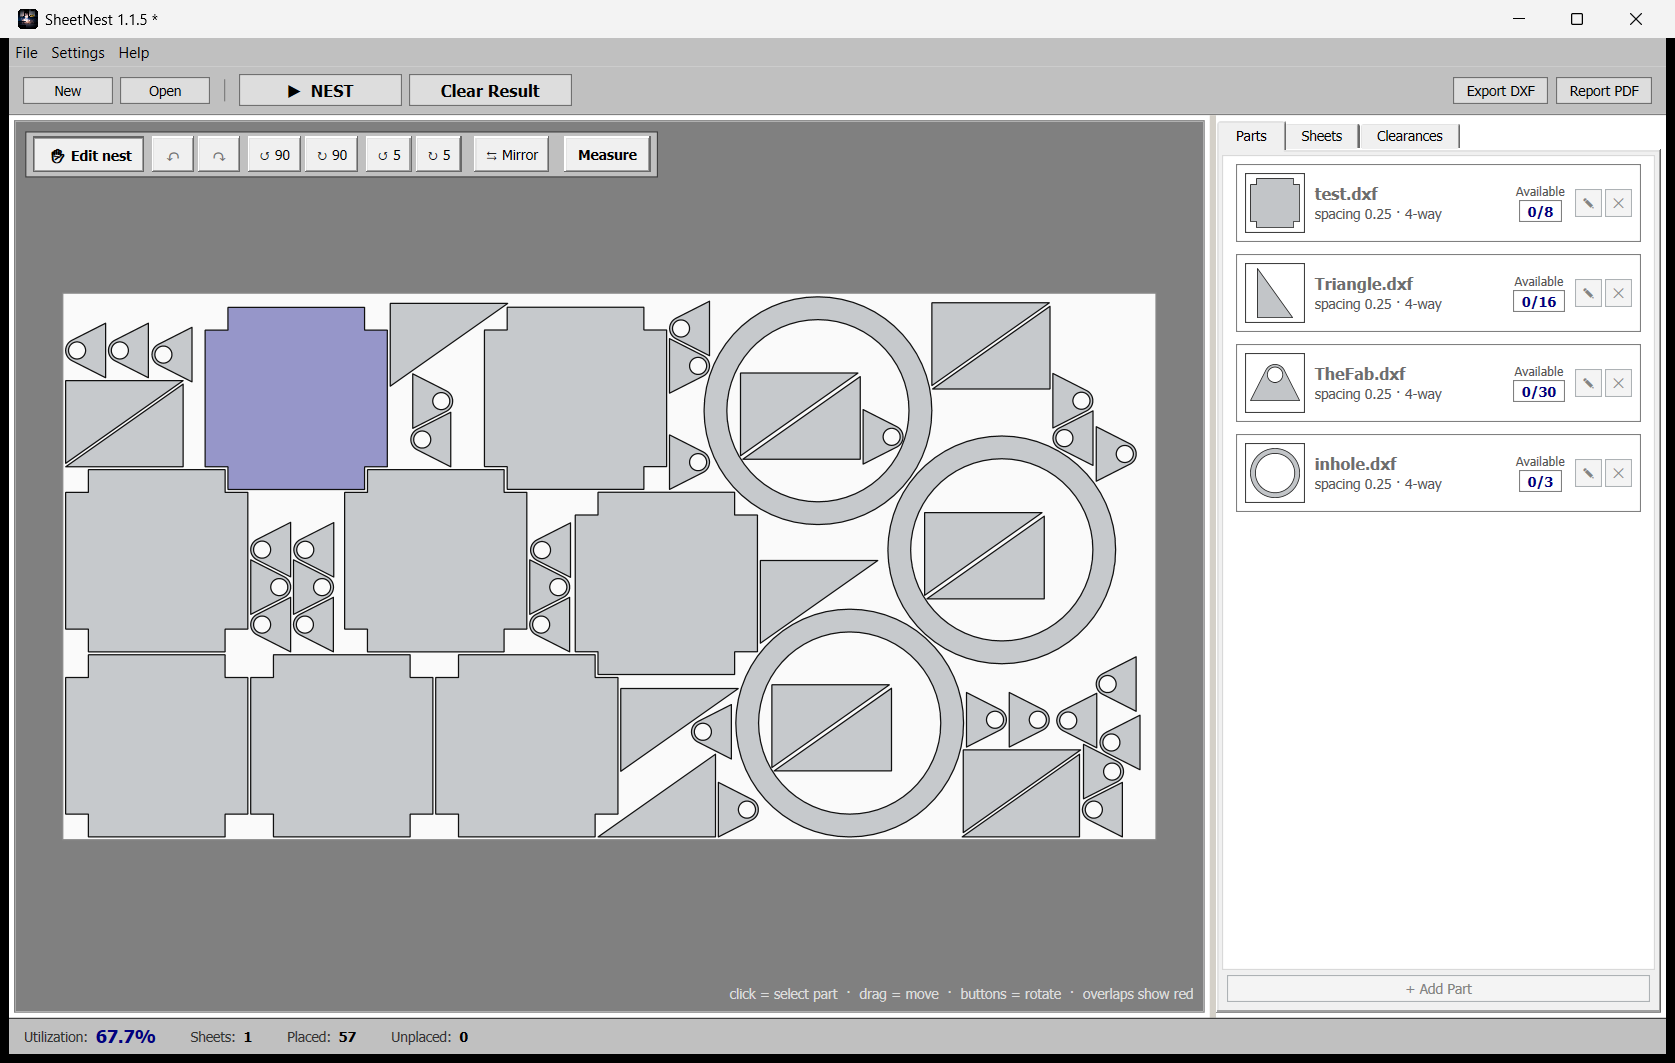
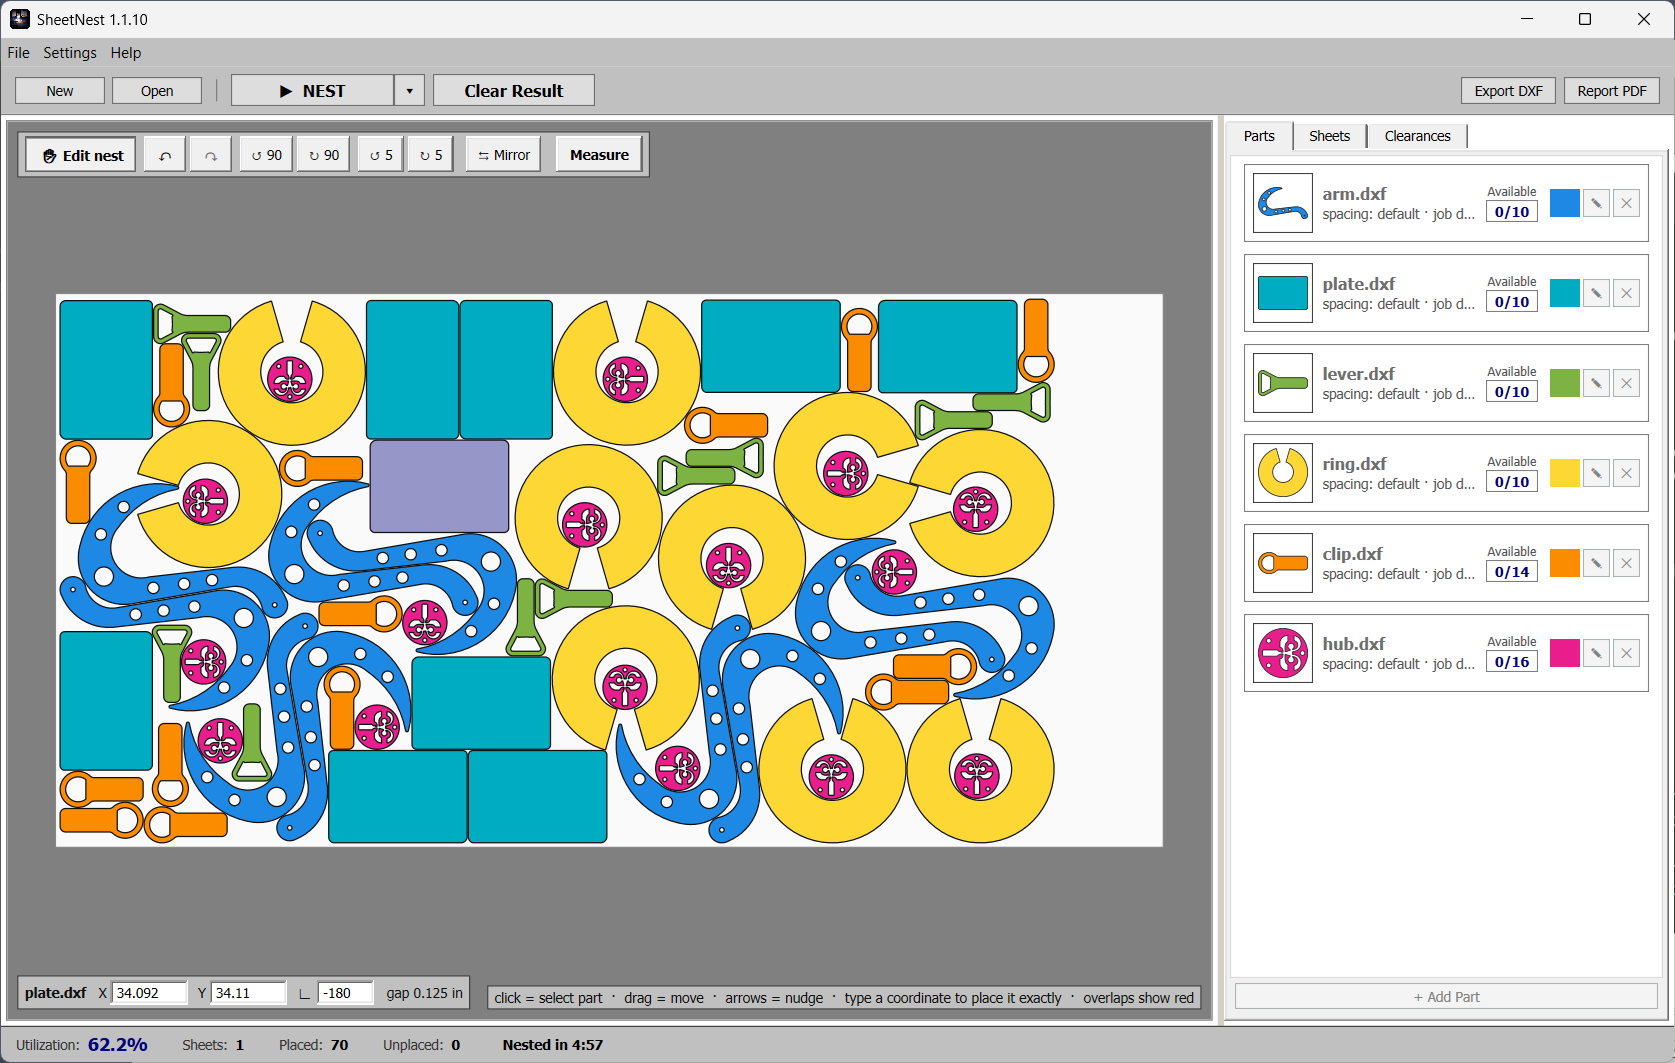
Show what the app looks like now, and what the report gives you
The two screenshots were taken in July, before the toolbar, the effort
picker, the per-part colours and everything that went in up to 1.1.10.
Retaken on the version that is published, and two more added, because the
PDF report is one of the best things in the app and it was nowhere to be
seen.

The job in them is a demo built out of the drawings already in this
repository (DeepNestPort/dxfs), renamed to something a shop would read:
seventy parts on one standard 120 x 60 sheet, 62.2% of the material used,
an eighth of an inch between parts and half an inch off the edge. No
customer geometry, and every number in the pictures is the app's own.

The two new ones are the report: the first page with the material to buy,
the cutting plan and the part totals, and a layout page with every part
numbered on the sheet, which is what 1.1.10 added and what lets a piece
coming off the table be matched to its row.

The edit caption also says what that view can do now: nudge with the arrow
keys, or type a coordinate to place a part exactly.

diff --git a/README.md b/README.md
@@ -41,7 +41,17 @@ If you cut sheet metal, SheetNest helps you get the most parts out of every shee
 
 <p align="center">
   <img src="imgs/edit-nest.png" alt="Editing a nest by hand in SheetNest: select, drag, rotate and mirror parts" width="900"><br>
-  <em>Fine-tune by hand: select, drag, rotate, mirror, and snap parts to a shared common line.</em>
+  <em>Fine-tune by hand: select, drag, rotate, mirror, nudge, or type a coordinate to place a part exactly.</em>
+</p>
+
+<p align="center">
+  <img src="imgs/nest-report.png" alt="SheetNest PDF nest report: material required, job summary, cutting plan and part totals" width="640"><br>
+  <em>The one-click PDF report: how much material to buy, the cutting plan, and what is on each layout.</em>
+</p>
+
+<p align="center">
+  <img src="imgs/nest-report-layout.png" alt="SheetNest nest report layout page: the sheet drawn to scale with every part numbered" width="640"><br>
+  <em>Every layout drawn to scale, with each part numbered so a cut piece can be matched to its row and marked.</em>
 </p>
 
 ## License
